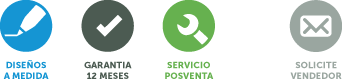
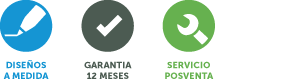
FIN

diff --git a/barreras.html b/barreras.html
@@ -55,6 +55,7 @@
 								CPA Ofrece barreas de transito rectas. Estas tienen un largo máximo de 6 mts. Puede controlar sistemas de acceso por computadoras y de control de peajes como también ser accionada por lectores magnéticos de tarjetas y llaves.
 							</p>
 							<img class="iconos-productos" src="images/iconos-productos.png" alt="Productos" title="Productos">
+							<a href="contacto.php"><img class="iconos-vendedor" src="images/iconos-vendedor.png" alt="Solicite Vendedor" title="Solicite Vendedor"></a>
 						</div>
 						<div id="content-barrera-2">
 								<img class="barrera-modelo-recta" src="images/img-barreras.png" alt="Barrera Modelo Recta" title="Barrera Modelo Recta">
@@ -83,7 +84,7 @@
 						Av. Gaona 4526 (1702) - Ciudadela. Bs. As. Argentina - Tel./Fax: (54-11) 4653-5444 / 4052 - info@cremonesi.com.ar<br />
 						Copyright © 2014 . Todos los derechos reservados.
 					</p>
-					<img id="logo-cpa" src="images/logo-cpa.png" alt="Logo Grupo Cremonesi" title="Logo Grupo Cremonesi">
+					<a href="http://www.rgdobrasymontajes.com.ar/" target="_blank"><img id="logo-cpa" src="images/logo-cpa.png" alt="RGD - Grupo Cremonesi" title="RGD - Grupo Cremonesi"></a>
 				</div>
 			</div>
 		</div>

diff --git a/cortinas.html b/cortinas.html
@@ -63,6 +63,7 @@
 									Los sistemas de automatización para las cortinas metálicas son variados y se adaptan según la necesidad, existen equipos elevadores eléctricos de tracción directa, con contramarcha o tubulares
 								</p>
 								<img class="iconos-productos" src="images/iconos-productos.png" alt="Productos" title="Productos">
+								<a href="contacto.php"><img class="iconos-vendedor" src="images/iconos-vendedor.png" alt="Solicite Vendedor" title="Solicite Vendedor"></a>
 						</div>
 						<div id="content-3">
 							<img class="min-img" src="images/img-cortinas.png" alt="Imagen de producto" title="Imagen de producto">
@@ -91,7 +92,7 @@
 						Av. Gaona 4526 (1702) - Ciudadela. Bs. As. Argentina - Tel./Fax: (54-11) 4653-5444 / 4052 - info@cremonesi.com.ar<br />
 						Copyright © 2014 . Todos los derechos reservados.
 					</p>
-					<img id="logo-cpa" src="images/logo-cpa.png" alt="Logo Grupo Cremonesi" title="Logo Grupo Cremonesi">
+					<a href="http://www.rgdobrasymontajes.com.ar/" target="_blank"><img id="logo-cpa" src="images/logo-cpa.png" alt="RGD - Grupo Cremonesi" title="RGD - Grupo Cremonesi"></a>
 				</div>
 			</div>
 		</div>

diff --git a/portones.html b/portones.html
@@ -103,6 +103,7 @@
 									Hierro, chapa de hierro plegada, acero inoxidable, madera, aluminio, PVC, vidrio, etc.
 								</p>
 								<img class="iconos-productos" src="images/iconos-productos.png" alt="Productos" title="Productos">
+								<a href="contacto.php"><img class="iconos-vendedor" src="images/iconos-vendedor.png" alt="Solicite Vendedor" title="Solicite Vendedor"></a>
 						</div>
 						<div id="content-3" class="popup-gallery">
 								<a href="image-galeria/img-01.jpg" class="container-min-img"><img class="min-img" src="image-galeria/min-img-01.png" alt="Imagen de producto" title="Imagen de producto"></a>
@@ -148,7 +149,7 @@
 						Av. Gaona 4526 (1702) - Ciudadela. Bs. As. Argentina - Tel./Fax: (54-11) 4653-5444 / 4052 - info@cremonesi.com.ar<br />
 						Copyright © 2014 . Todos los derechos reservados.
 					</p>
-					<img id="logo-cpa" src="images/logo-cpa.png" alt="Logo Grupo Cremonesi" title="Logo Grupo Cremonesi">
+					<a href="http://www.rgdobrasymontajes.com.ar/" target="_blank"><img id="logo-cpa" src="images/logo-cpa.png" alt="RGD - Grupo Cremonesi" title="RGD - Grupo Cremonesi"></a>
 				</div>
 			</div>
 		</div>

diff --git a/index.html b/index.html
@@ -116,7 +116,7 @@
 						Av. Gaona 4526 (1702) - Ciudadela. Bs. As. Argentina - Tel./Fax: (54-11) 4653-5444 / 4052 - info@cremonesi.com.ar<br />
 						Copyright © 2014 . Todos los derechos reservados.
 					</p>
-					<img id="logo-cpa" src="images/logo-cpa.png" alt="Logo Grupo Cremonesi" title="Logo Grupo Cremonesi">
+					<a href="http://www.rgdobrasymontajes.com.ar/" target="_blank"><img id="logo-cpa" src="images/logo-cpa.png" alt="RGD - Grupo Cremonesi" title="RGD - Grupo Cremonesi"></a>
 				</div>
 			</div>
 		</div>

diff --git a/somos.html b/somos.html
@@ -84,7 +84,7 @@
 						Av. Gaona 4526 (1702) - Ciudadela. Bs. As. Argentina - Tel./Fax: (54-11) 4653-5444 / 4052 - info@cremonesi.com.ar<br />
 						Copyright © 2014 . Todos los derechos reservados.
 					</p>
-					<img id="logo-cpa" src="images/logo-cpa.png" alt="Logo Grupo Cremonesi" title="Logo Grupo Cremonesi">
+					<a href="http://www.rgdobrasymontajes.com.ar/" target="_blank"><img id="logo-cpa" src="images/logo-cpa.png" alt="RGD - Grupo Cremonesi" title="RGD - Grupo Cremonesi"></a>
 				</div>
 			</div>
 		</div>

diff --git a/contacto.php b/contacto.php
@@ -1,6 +1,6 @@
 <?php
 if(isset($_POST) && !empty($_POST)){
-	$para = 'info@massanet.com.ar';
+	$para = 'info@cremonesi.com.ar';
 	$titulo = 'Consulta Web - RGD';
 	$mensaje = 'Nombre: ' . $_POST['nombre'] . "\r\n";
 	$mensaje .= 'Telefono: ' . $_POST['telefono'] . "\r\n";
@@ -140,7 +140,7 @@ if(isset($_POST) && !empty($_POST)){
 						Av. Gaona 4526 (1702) - Ciudadela. Bs. As. Argentina - Tel./Fax: (54-11) 4653-5444 / 4052 - info@cremonesi.com.ar<br />
 						Copyright © 2014 . Todos los derechos reservados.
 					</p>
-					<img id="logo-cpa" src="images/logo-cpa.png" alt="Logo Grupo Cremonesi" title="Logo Grupo Cremonesi">
+					<a href="http://www.rgdobrasymontajes.com.ar/" target="_blank"><img id="logo-cpa" src="images/logo-cpa.png" alt="RGD - Grupo Cremonesi" title="RGD - Grupo Cremonesi"></a>
 				</div>
 				<?php if(isset($_POST) && !empty($_POST)): ?>
 					<script type="text/javascript">
